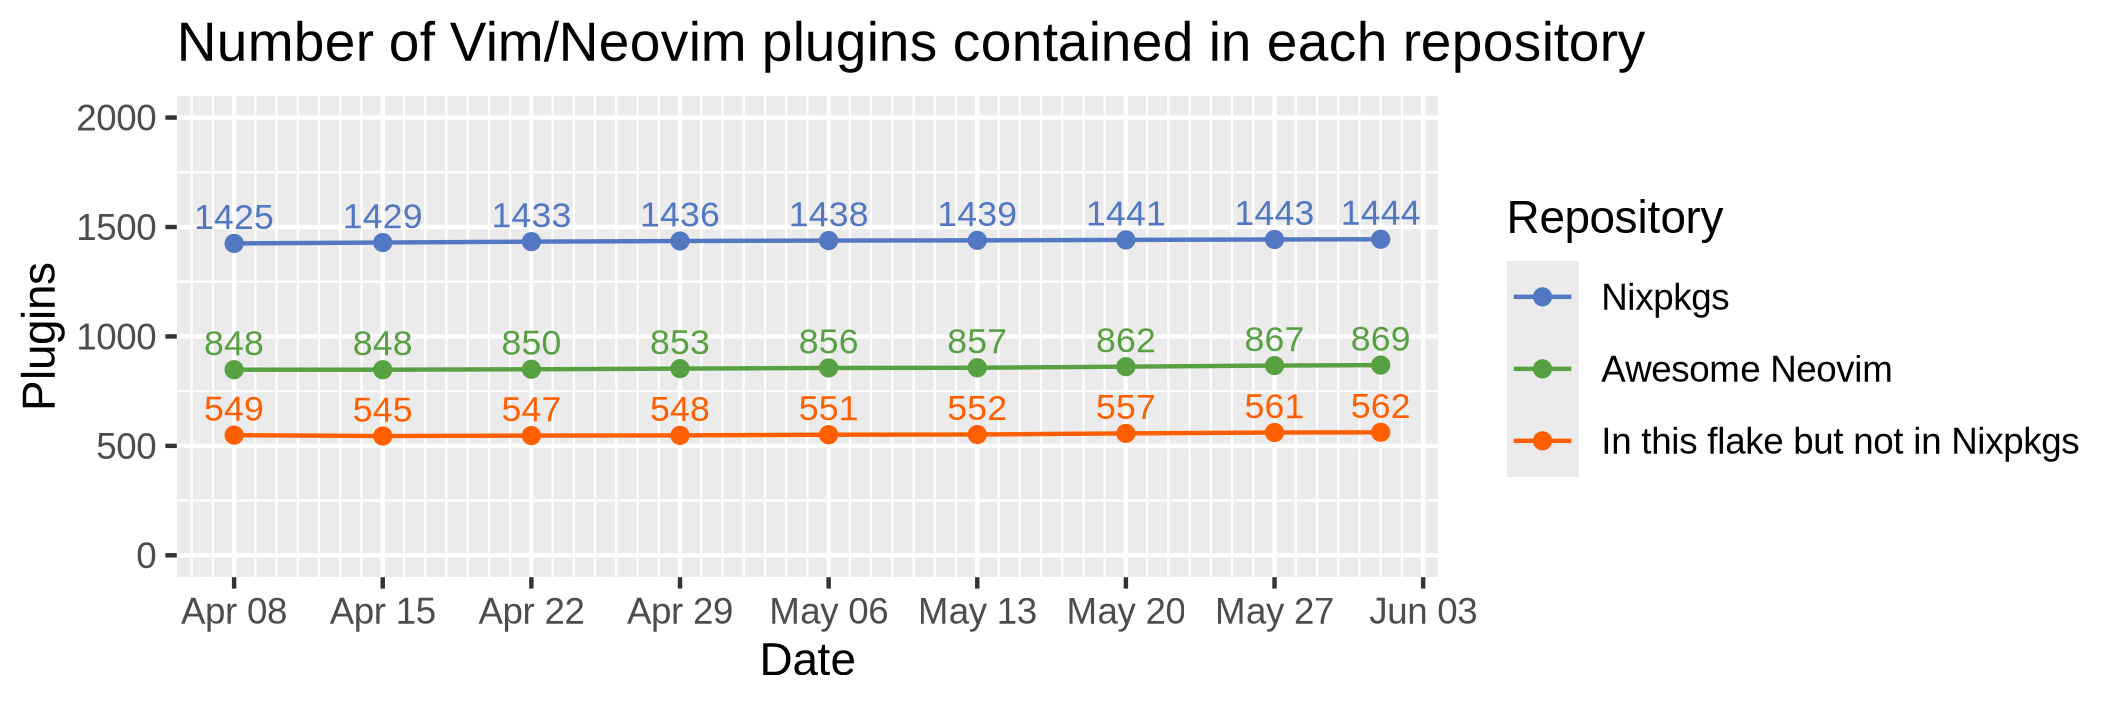
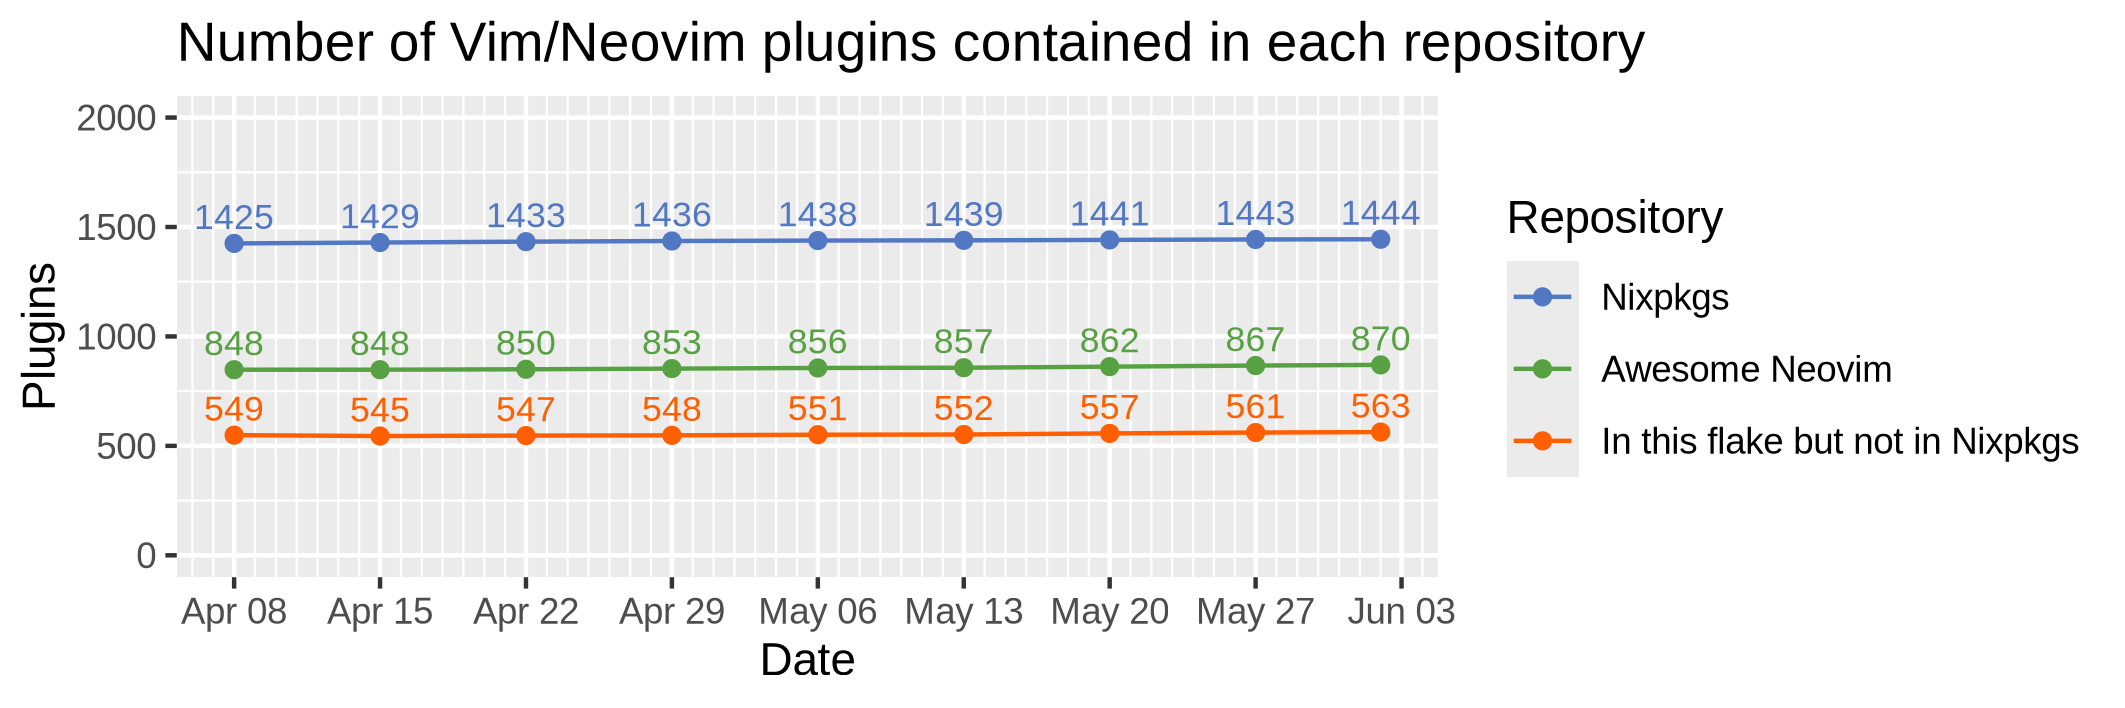
auto: update vim plugins

diff --git a/README.md b/README.md
@@ -8,7 +8,7 @@ Nix flake of Awesome Neovim plugins.
 
 [b1]: https://img.shields.io/github/actions/workflow/status/m15a/flake-awesome-neovim-plugins/check.yml?style=flat-square&logo=github&label=CI
 [b2]: https://github.com/m15a/flake-awesome-neovim-plugins/actions/workflows/check.yml
-[b3]: https://img.shields.io/badge/Awesome_Neovim_plugins-869-57A143?style=flat-square
+[b3]: https://img.shields.io/badge/Awesome_Neovim_plugins-870-57A143?style=flat-square
 [b4]: https://img.shields.io/endpoint?url=https://flakehub.com/f/m15a/flake-awesome-neovim-plugins/badge&style=flat-square
 [b5]: https://flakehub.com/flake/m15a/flake-awesome-neovim-plugins
 
